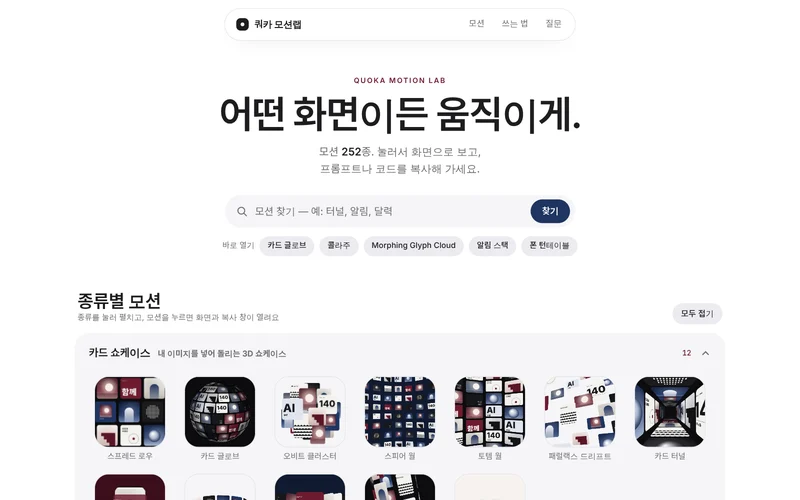
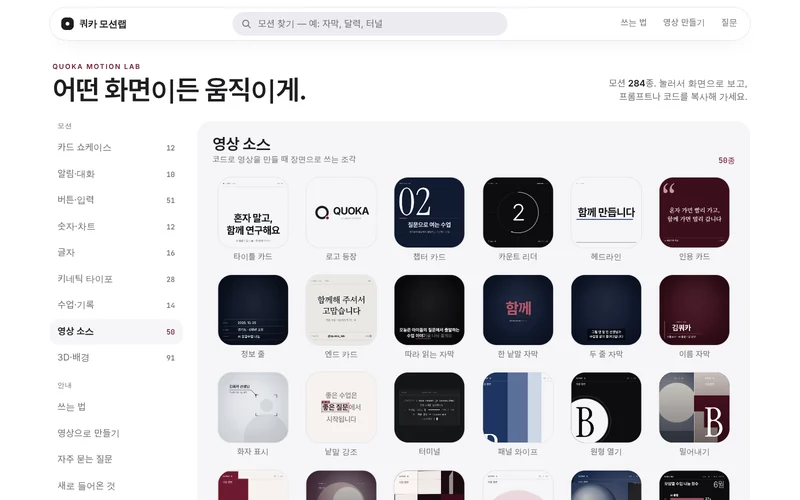
No.60 쿼카 모션랩: 설명과 썸네일을 새 화면에 맞게 갱신
Claude-Session: https://claude.ai/code/session_01R5Qn54M7vdcF9hEvS8mMfq

diff --git a/index.html b/index.html
@@ -376,7 +376,7 @@ const gridWorks = () => admin ? WORKS.filter(w=>!isDeleted(w.slug)) : visibleWor
 /* no = 제작 순서(오래된 것부터). 기본 정렬은 최신순. feat = 대표 캐러셀. */
 const WORKS = [
  {no:24,slug:'quoka-archive',t:'두목쿼카의 코딩 아카이브',d:'지금 보고 있는 이 사이트 — 여섯 달의 코딩 작업을 한 서가에 모은 아카이브예요.',c:'연구회·브랜드',date:'2026.07',host:'github.io',url:'',self:true},
- {no:60,slug:'quoka-motion-lab',t:'쿼카 모션랩',d:'모션 252종을 눌러서 화면으로 보고, 프롬프트나 코드를 복사해 웹앱에 붙이는 모션 서가 — 카드 쇼케이스·UI 조각·키네틱 타이포·3D 장면은 직접 짜고, ThreeUI 공개판 원본 162종까지 한 목록에 넣었다. 썸네일을 누르면 화면과 프롬프트 복사 창이 뜬다.',c:'생성기·프롬프트',date:'2026.10',host:'github.io',url:'https://gottkf1208.github.io/quoka-motion-lab/'},
+ {no:60,slug:'quoka-motion-lab',t:'쿼카 모션랩',d:'모션 284종을 눌러서 화면으로 보고, 프롬프트나 코드를 복사해 웹앱과 영상에 쓰는 모션 서가 — 글자·키네틱 타이포·문구 느낌의 수업 기록·3D 장면·영상 소스 50종은 직접 짜고, ThreeUI 공개판 원본 126종도 한 목록에 넣었다. 썸네일을 누르면 화면과 프롬프트 복사 창이 뜬다.',c:'생성기·프롬프트',date:'2026.10',host:'github.io',url:'https://gottkf1208.github.io/quoka-motion-lab/'},
  {no:59,slug:'dmz-robot',t:'DMZ 평화로봇 연구소',d:'4학년 도덕 「비무장 지대, 평화와 생명의 땅」 4차시를 통째로 담은 새벽 연구소 — 비바 소장의 인사 영상으로 문을 열고, 완성형 32종이나 부품 조립로봇을 깨워 블록 규칙을 코딩한 뒤, 점프와 센서 스캔으로 달리는 새벽 순찰 러시를 돈다. 맞는 센서가 없으면 NO SIGNAL — 로봇은 아무것도 느끼지 못한다는 것까지 몸으로 배우고, 사계절 영상관을 지나 우리 반 전시회에 내 로봇을 보낸다.',c:'게임',date:'2026.10',host:'workers.dev',url:'https://dmz-robot.gottkf12087.workers.dev'},
  {no:58,slug:'quoka-character',t:'QUOKA 캐릭터 가이드',d:'연구회 공식 캐릭터 쿼카를 언제 뽑아도 같은 얼굴로 — 앵커 레퍼런스와 마스터 프롬프트, 턴어라운드·표정·포즈·색 견본 캐릭터 시트, 용도별 프롬프트 라이브러리를 스케치북처럼 넘겨 보는 일관성 키트. 파리지앵 의상 20종, 2027 붉은 양의 해 새해 장면, 세배 시퀀스, 극장 의상 42세트와 블로그 인포그래픽 160장까지 샘플 보관소에 모았다.',c:'연구회·브랜드',date:'2026.10',host:'github.io',url:'https://gottkf1208.github.io/quoka-character/'},
  {no:57,slug:'just-vuild-tiles',t:'JUST VUILD 타일 스튜디오',d:'교사 AI 해커톤 JUST VUILD 현장용 — 팔찌 QR로 입장해 연구회 로고와 취향 타일 스무 조각으로 나만의 등록증을 꾸미고, 갤러리워크에서 마음에 든 팀에 타일 한 조각씩 응원을 보내는 참가자 체크인·응원 스튜디오. 빌더 보드 꾸미기와 팀 럭키드로우까지.',c:'연수·행사',date:'2026.09',host:'workers.dev',url:'https://just-vuild-tiles.gottkf12087.workers.dev/'},
